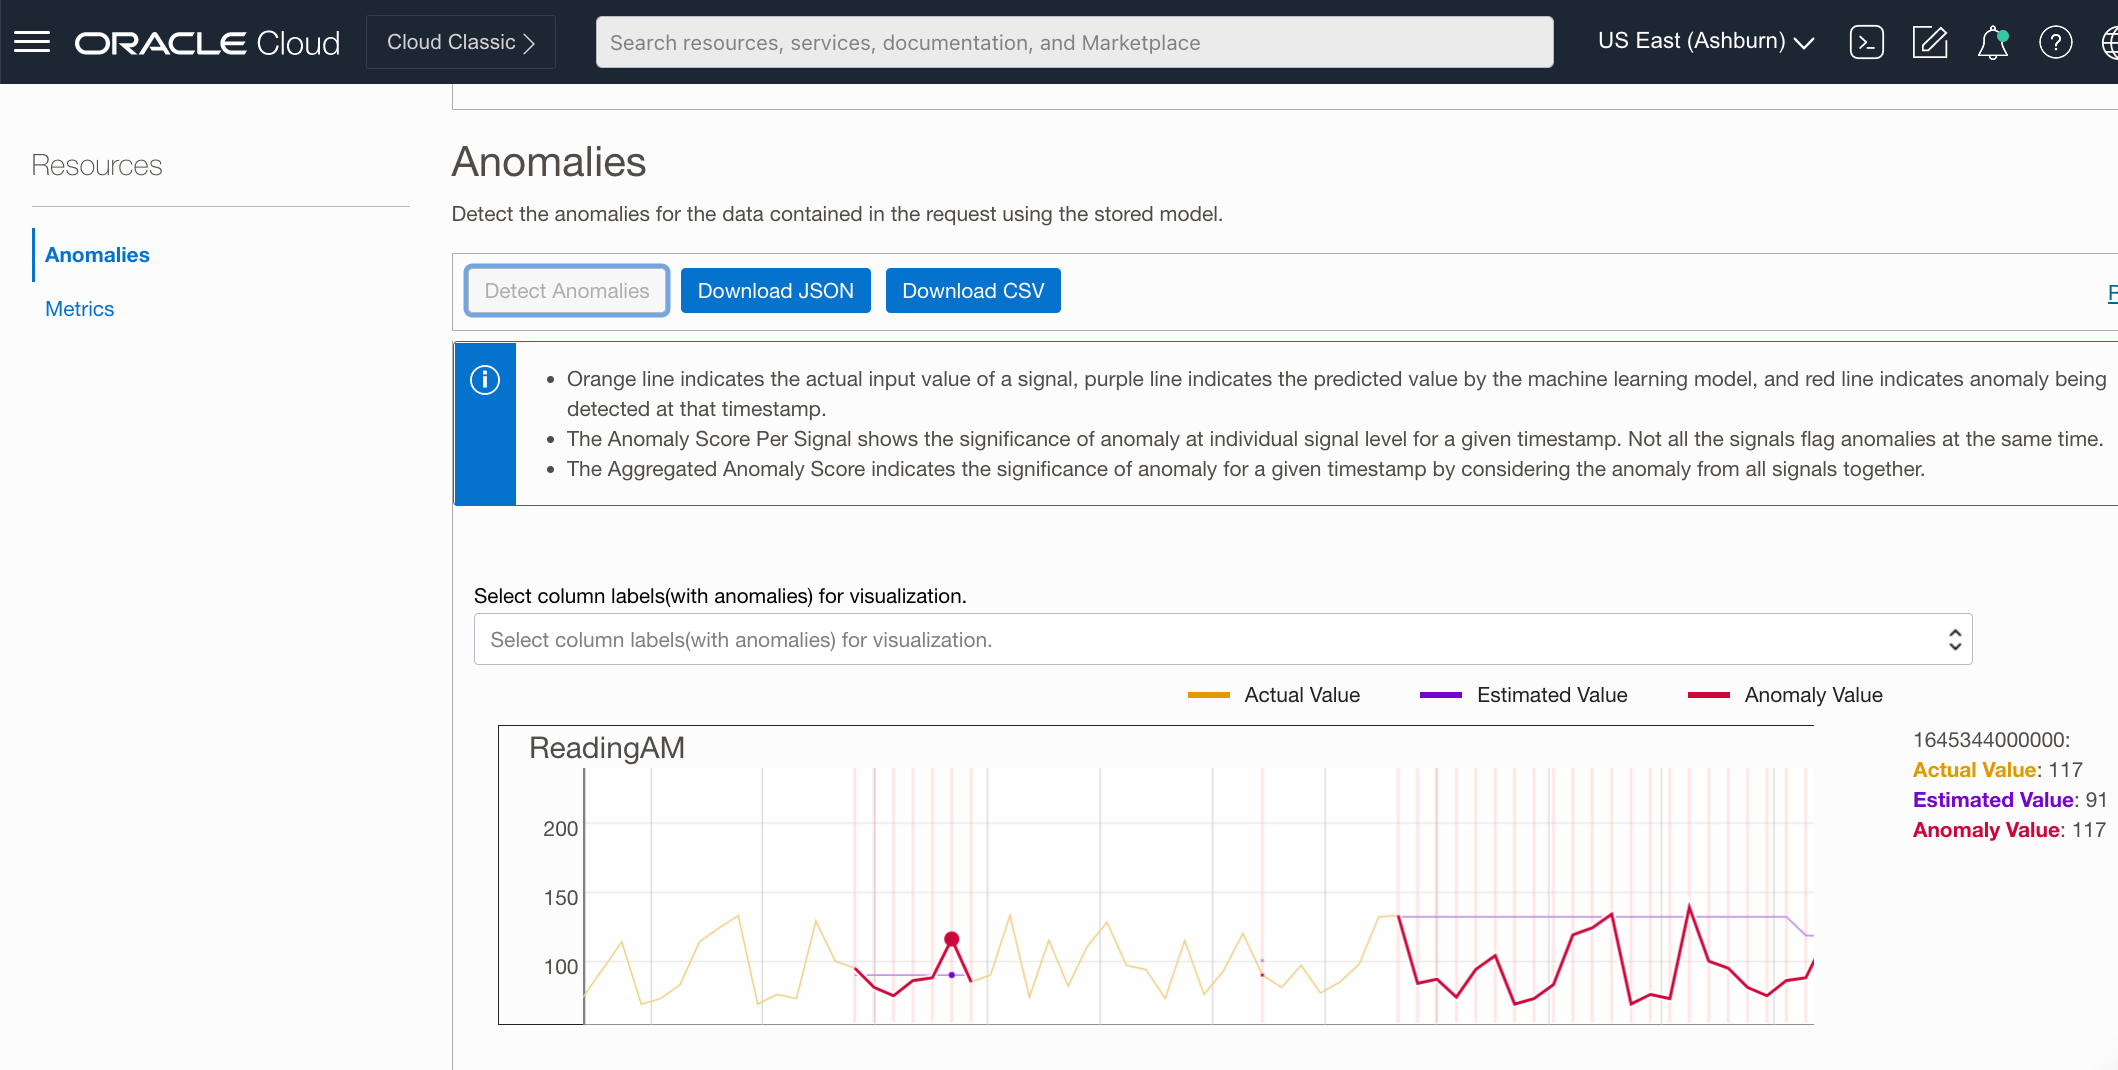
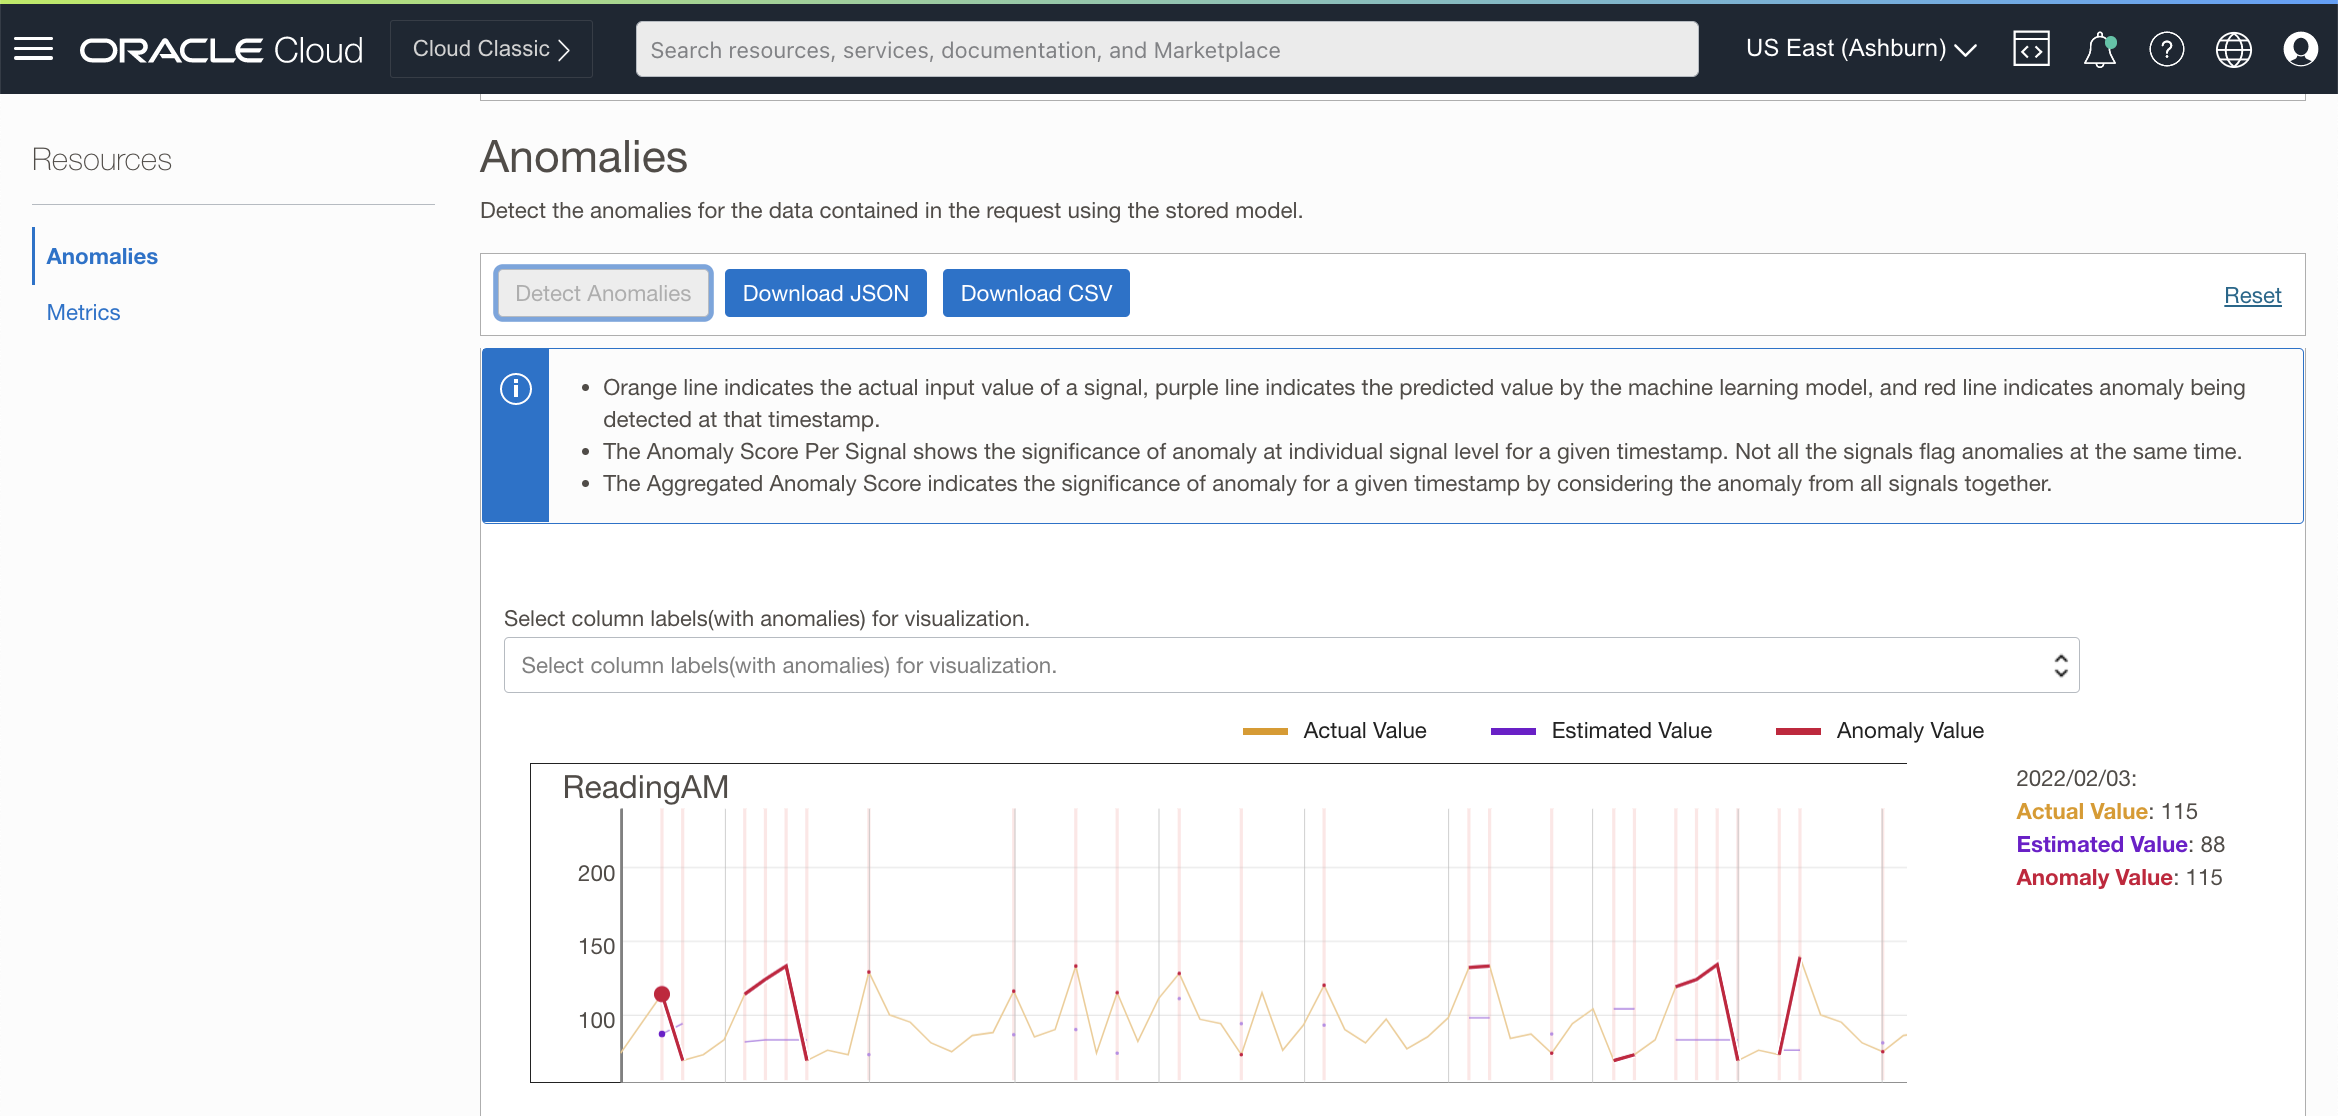
Updated Readme doc and images

diff --git a/oci-ai-ad-uad/README.md b/oci-ai-ad-uad/README.md
@@ -142,9 +142,9 @@ To work on this tutorial, you must have the following
 
       Anomalies are usually explainable only in the context of past events within a time series.  The *Window Size* parameter is used to set this contextual time window.  When **Automatic Window Size** option is selected, the service automatically computes the window size value.  However, in the case of use case #4, we are trying to detect *Point* anomalies and as such there is no need to look back at past events.
 
-      Uncheck the checkbox for **Automatic Window Size** and specify a value of 1 for **Window Size**.
+      Uncheck the checkbox for **Automatic Window Size** and specify a value of 1 for **Window Size**. Leave the default values for other fields as is.
 
-      Leave the default values for other fields as is. See screenshot below.
+      See screenshot below.
 
       ![alt tag](./images/section-3-3-5.png)
 
@@ -182,8 +182,21 @@ To work on this tutorial, you must have the following
 
       ![alt tag](./images/section-4-1-2.png)
 
-      Click on **Detect** button.  Anomaly detection results will be rendered as graphs as shown in the screenshot below.
+      Click on **Detect** button.  Anomaly detection results will be rendered in graphs as shown in the screenshot below.
 
       ![alt tag](./images/section-4-1-3.png)
 
-      In reviewing the detect results graph, you might have noticed that the service has flagged a normal value as 
+      In the Anomaly Detection results graph, you might notice that the first data point flagged as an anomaly (115 mg/dL) is in fact a normal value.  While reviewing some of the other anomalous data points, you might realize that the service has flagged a few false positives.
+
+    2. Fine-tune Accuracy of Anomaly Detection
+
+      OCI Anomaly Detection Service allows users to reduce the number of flagged anomalies (improve accuracy) by adjusting the value of **Sensitivity** parameter.
+
+      Sensitivity paramter values can range between **0.0** and **1.0**.  When not specified, the default value of Sensitivity parameter is set at **0.5**. A higher Sensitivity value could potentially yield more number of anomalies and a lower value yields fewer anomalies.
+
+      Let's adjust the Sensitivity value and see if the service can deliver better accuracy with fewer false positives.  Click on **Detect Anomalies** button again and this time specify a value of **0.4** for **Sensitivity** parameter.  Review the results.
+
+      ![alt tag](./images/section-4-2-1.png)
+
+      In the detect results graph, you will observe that the service has produced fewer false positives.
+      
